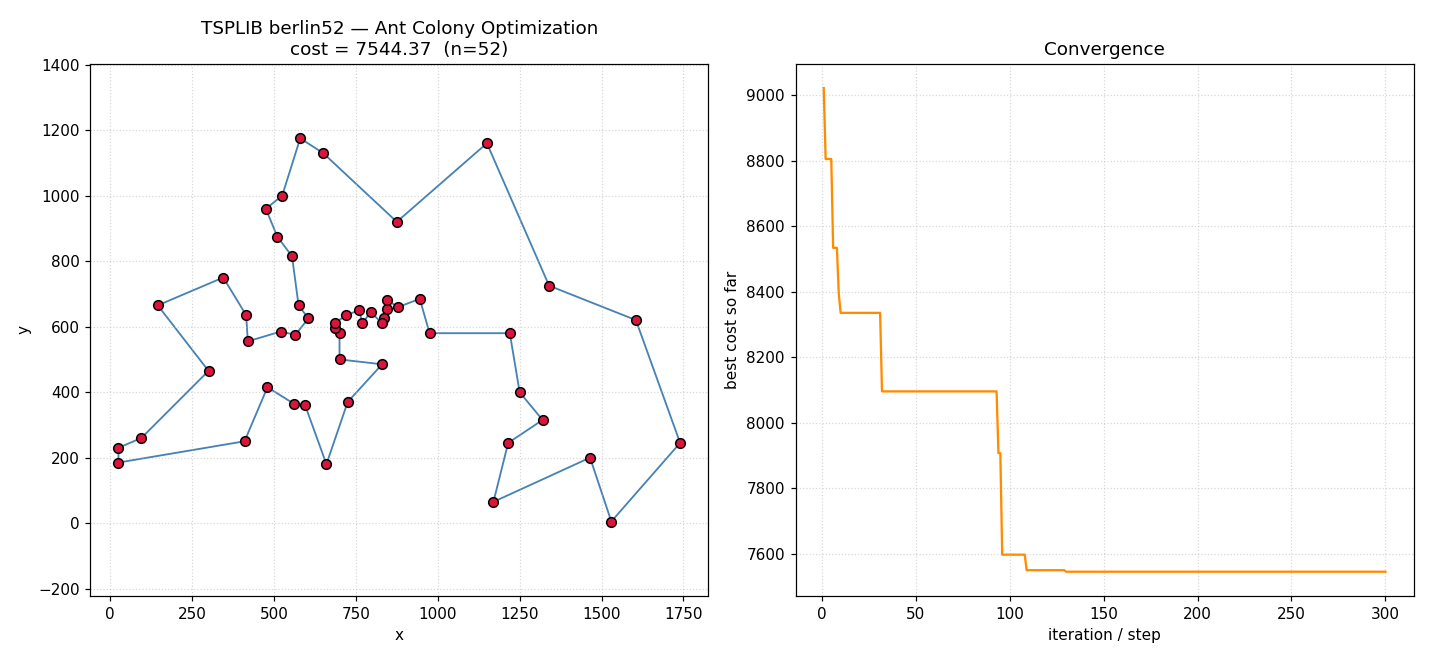
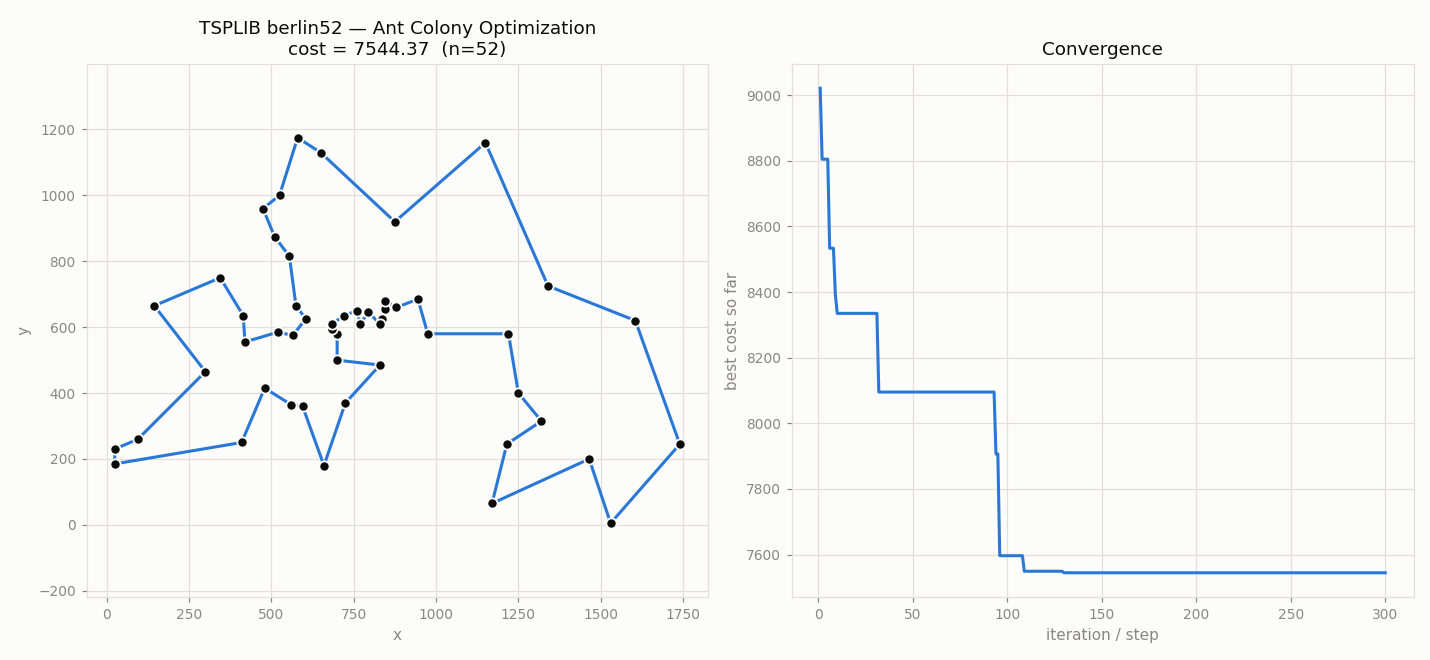
Animasyonlu tur GIF'i ekle, statik görselleri dataviz paletiyle restyle et
- src/experiments/make_tour_animation.py: tour_history kullanarak,
  turun adım adım değiştiği bir GIF üretir (matplotlib
  FuncAnimation + PillowWriter), yakınsama iyileşmesi bittikten
  kısa süre sonra kesip GIF'i gereksiz uzatmıyor.
- berlin52 için SA ve ACO animasyonları üretildi — SA'nın kaotik
  başlangıçtan yavaşça düzelmesi ile ACO'nun (her iterasyonda 2-opt
  sayesinde) temiz başlayıp hızla iyileşmesi arasındaki görsel
  kontrast, mevcut kalite/hız trade-off anlatısını güçlendiriyor.
- plot_solution.py aynı paletle (ACO=mavi, SA=turuncu, dataviz
  referans renkleri) yeniden stillendi; statik PNG'ler yeniden
  üretildi.

diff --git a/src/experiments/make_tour_animation.py b/src/experiments/make_tour_animation.py
@@ -1,0 +1,174 @@
+"""
+Solve a TSP instance with tour-history recording enabled and render an
+animated GIF of the tour untangling over iterations, synced with the
+convergence curve. Used to generate the README's hero image.
+
+Palette follows the project's dataviz reference (see conversation/plan):
+ACO = blue, SA = orange, on a fixed light surface (static GIFs embedded in
+Markdown can't respond to a viewer's dark/light setting, so one mode is
+chosen deliberately rather than left to chance).
+"""
+from __future__ import annotations
+from pathlib import Path
+import sys
+import argparse
+
+import matplotlib.pyplot as plt
+from matplotlib.animation import FuncAnimation, PillowWriter
+
+THIS_DIR = Path(__file__).resolve().parent
+SRC_DIR = THIS_DIR.parent
+BASE_DIR = SRC_DIR.parent
+
+if str(SRC_DIR) not in sys.path:
+    sys.path.insert(0, str(SRC_DIR))
+
+from tsp.instance import TSPInstance
+from solvers.sa import SAConfig, sa_solve
+from solvers.aco import ACOConfig, aco_solve
+
+PLOTS_DIR = BASE_DIR / "data" / "plots"
+TARGET_FRAMES = 50
+
+# --- dataviz reference palette (light surface, fixed for static/GIF embeds) ---
+SURFACE = "#fcfcfb"
+INK_PRIMARY = "#0b0b0b"
+INK_MUTED = "#898781"
+GRIDLINE = "#e1e0d9"
+SERIES = {"aco": "#2a78d6", "sa": "#eb6834"}
+LABELS = {"aco": "Ant Colony Optimization", "sa": "Simulated Annealing"}
+
+
+def solve(instance: TSPInstance, algo: str, seed: int):
+    if algo == "sa":
+        max_steps = 300_000
+        cfg = SAConfig(
+            init_accept_prob=0.8,
+            uphill_samples=100,
+            cooling_alpha=0.995,
+            iters_per_temp=instance.n * 5,
+            min_temp=1e-12,
+            max_steps=max_steps,
+            log_interval=max(1, max_steps // TARGET_FRAMES),
+            seed=seed,
+            use_step_budget_only=True,
+            record_tour_history=True,
+        )
+        return sa_solve(instance, cfg)
+
+    if algo == "aco":
+        iterations = 300
+        cfg = ACOConfig(
+            num_ants=max(20, instance.n // 2),
+            alpha=1.0,
+            beta=3.0,
+            rho=0.1,
+            q=1.0,
+            iterations=iterations,
+            use_local_search=True,
+            local_search_passes=1,
+            log_interval=max(1, iterations // TARGET_FRAMES),
+            seed=seed,
+            record_tour_history=True,
+        )
+        return aco_solve(instance, cfg)
+
+    raise ValueError(f"Unknown algorithm: {algo}")
+
+
+def trim_after_convergence(tour_history, cost_history, hold: int = 6):
+    """
+    tour_history and cost_history are recorded at the same log-interval
+    cadence (same length, same step values), so they can be trimmed
+    together by index. Cut the long flat tail once the best cost stops
+    improving, keeping a short hold so the "final reveal" still registers.
+    """
+    assert len(tour_history) == len(cost_history)
+    last_improvement = 0
+    for i in range(1, len(cost_history)):
+        if cost_history[i][1] < cost_history[i - 1][1] - 1e-9:
+            last_improvement = i
+    cutoff = min(len(cost_history), last_improvement + hold + 1)
+    return tour_history[:cutoff], cost_history[:cutoff]
+
+
+def make_animation(instance: TSPInstance, result: dict, algo: str, title_prefix: str, out_path: Path):
+    tour_history, cost_history = trim_after_convergence(result["tour_history"], result["history"])
+    color = SERIES[algo]
+    xs_all = [c[0] for c in instance.coords]
+    ys_all = [c[1] for c in instance.coords]
+
+    fig, (ax_tour, ax_curve) = plt.subplots(1, 2, figsize=(13, 6), facecolor=SURFACE)
+    for ax in (ax_tour, ax_curve):
+        ax.set_facecolor(SURFACE)
+        for spine in ax.spines.values():
+            spine.set_color(GRIDLINE)
+        ax.tick_params(colors=INK_MUTED, labelsize=9)
+        ax.grid(True, color=GRIDLINE, linewidth=0.8, zorder=0)
+
+    ax_tour.set_xlim(min(xs_all) - 60, max(xs_all) + 60)
+    ax_tour.set_ylim(min(ys_all) - 60, max(ys_all) + 60)
+    ax_tour.set_aspect("equal")
+    (tour_line,) = ax_tour.plot([], [], "-", color=color, linewidth=2, zorder=2, solid_capstyle="round")
+    ax_tour.scatter(xs_all, ys_all, color=INK_PRIMARY, edgecolors=SURFACE, linewidths=1.2, s=45, zorder=3)
+    tour_title = ax_tour.set_title("", fontsize=12, color=INK_PRIMARY)
+
+    steps = [s for s, _ in cost_history]
+    costs = [c for _, c in cost_history]
+    ax_curve.set_xlim(min(steps), max(steps))
+    pad = (max(costs) - min(costs)) * 0.08 or 1.0
+    ax_curve.set_ylim(min(costs) - pad, max(costs) + pad)
+    ax_curve.set_xlabel("iteration / step", color=INK_MUTED, fontsize=10)
+    ax_curve.set_ylabel("best cost so far", color=INK_MUTED, fontsize=10)
+    ax_curve.set_title("Convergence", fontsize=12, color=INK_PRIMARY)
+    (curve_line,) = ax_curve.plot([], [], "-", color=color, linewidth=2, zorder=2)
+    (curve_dot,) = ax_curve.plot([], [], "o", color=color, markersize=9,
+                                   markeredgecolor=SURFACE, markeredgewidth=1.5, zorder=3)
+
+    fig.suptitle(f"{title_prefix} — {LABELS[algo]}", fontsize=14, color=INK_PRIMARY, y=0.98)
+    fig.tight_layout(rect=(0, 0, 1, 0.94))
+
+    def update(frame_idx):
+        # tour_history and cost_history are aligned by index (same log-interval cadence).
+        step, tour = tour_history[frame_idx]
+        xs = [instance.coords[c][0] for c in tour] + [instance.coords[tour[0]][0]]
+        ys = [instance.coords[c][1] for c in tour] + [instance.coords[tour[0]][1]]
+        tour_line.set_data(xs, ys)
+
+        curve_line.set_data(steps[: frame_idx + 1], costs[: frame_idx + 1])
+        curve_dot.set_data([steps[frame_idx]], [costs[frame_idx]])
+
+        tour_title.set_text(f"cost = {costs[frame_idx]:.2f}  (n={instance.n}, step {step})")
+        return tour_line, curve_line, curve_dot, tour_title
+
+    # Hold on the final frame for a beat so the GIF doesn't loop too abruptly.
+    hold_frames = 8
+    frame_indices = list(range(len(tour_history))) + [len(tour_history) - 1] * hold_frames
+
+    anim = FuncAnimation(fig, lambda i: update(frame_indices[i]), frames=len(frame_indices), blit=False)
+
+    PLOTS_DIR.mkdir(parents=True, exist_ok=True)
+    anim.save(out_path, writer=PillowWriter(fps=8))
+    plt.close(fig)
+    print(f"Saved: {out_path}  ({len(tour_history)} tour frames, {out_path.stat().st_size / 1024:.0f} KB)")
+
+
+def main():
+    parser = argparse.ArgumentParser(description="Render an animated GIF of a tour untangling over iterations.")
+    parser.add_argument("--instance", required=True)
+    parser.add_argument("--algo", choices=["sa", "aco"], required=True)
+    parser.add_argument("--seed", type=int, default=42)
+    parser.add_argument("--label", default=None)
+    args = parser.parse_args()
+
+    inst_path = Path(args.instance)
+    instance = TSPInstance.load(str(inst_path))
+    result = solve(instance, args.algo, args.seed)
+
+    label = args.label or inst_path.stem
+    out_path = PLOTS_DIR / f"{inst_path.stem}_{args.algo}_animated.gif"
+    make_animation(instance, result, args.algo, label, out_path)
+
+
+if __name__ == "__main__":
+    main()

diff --git a/src/experiments/plot_solution.py b/src/experiments/plot_solution.py
@@ -1,7 +1,10 @@
 """
 Solve a TSP instance and render a two-panel figure: the found tour drawn
 over the city map, and the best-cost-vs-iteration convergence curve.
-Used to generate the README's result images.
+Used to generate the README's static result images (see
+make_tour_animation.py for the animated GIF version).
+
+Palette: dataviz reference palette, light surface (ACO = blue, SA = orange).
 """
 from __future__ import annotations
 from pathlib import Path
@@ -24,6 +27,13 @@ from solvers.aco import ACOConfig, aco_solve
 
 PLOTS_DIR = BASE_DIR / "data" / "plots"
 
+SURFACE = "#fcfcfb"
+INK_PRIMARY = "#0b0b0b"
+INK_MUTED = "#898781"
+GRIDLINE = "#e1e0d9"
+SERIES = {"aco": "#2a78d6", "sa": "#eb6834"}
+LABELS = {"aco": "Ant Colony Optimization", "sa": "Simulated Annealing"}
+
 
 def solve(instance: TSPInstance, algo: str, seed: int):
     if algo == "sa":
@@ -38,7 +48,7 @@ def solve(instance: TSPInstance, algo: str, seed: int):
             seed=seed,
             use_step_budget_only=True,
         )
-        return sa_solve(instance, cfg), "Simulated Annealing"
+        return sa_solve(instance, cfg)
 
     if algo == "aco":
         cfg = ACOConfig(
@@ -53,41 +63,47 @@ def solve(instance: TSPInstance, algo: str, seed: int):
             log_interval=1,
             seed=seed,
         )
-        return aco_solve(instance, cfg), "Ant Colony Optimization"
+        return aco_solve(instance, cfg)
 
     raise ValueError(f"Unknown algorithm: {algo}")
 
 
-def plot_solution(instance: TSPInstance, result: dict, algo_label: str, title_prefix: str, out_path: Path):
+def plot_solution(instance: TSPInstance, result: dict, algo: str, title_prefix: str, out_path: Path):
     tour = result["best_tour"]
     cost = result["best_cost"]
     history = result["history"]
+    color = SERIES[algo]
 
-    fig, (ax_tour, ax_curve) = plt.subplots(1, 2, figsize=(13, 6))
+    fig, (ax_tour, ax_curve) = plt.subplots(1, 2, figsize=(13, 6), facecolor=SURFACE)
+    for ax in (ax_tour, ax_curve):
+        ax.set_facecolor(SURFACE)
+        for spine in ax.spines.values():
+            spine.set_color(GRIDLINE)
+        ax.tick_params(colors=INK_MUTED, labelsize=9)
+        ax.grid(True, color=GRIDLINE, linewidth=0.8, zorder=0)
 
     xs = [instance.coords[c][0] for c in tour] + [instance.coords[tour[0]][0]]
     ys = [instance.coords[c][1] for c in tour] + [instance.coords[tour[0]][1]]
-    ax_tour.plot(xs, ys, "-", color="steelblue", linewidth=1.2, zorder=1)
+    ax_tour.plot(xs, ys, "-", color=color, linewidth=2, zorder=2, solid_capstyle="round")
     ax_tour.scatter(
         [c[0] for c in instance.coords], [c[1] for c in instance.coords],
-        color="crimson", edgecolors="black", zorder=2, s=40,
+        color=INK_PRIMARY, edgecolors=SURFACE, linewidths=1.2, zorder=3, s=45,
     )
-    ax_tour.set_title(f"{title_prefix} — {algo_label}\ncost = {cost:.2f}  (n={instance.n})")
-    ax_tour.set_xlabel("x")
-    ax_tour.set_ylabel("y")
+    ax_tour.set_title(f"{title_prefix} — {LABELS[algo]}\ncost = {cost:.2f}  (n={instance.n})",
+                       fontsize=12, color=INK_PRIMARY)
+    ax_tour.set_xlabel("x", color=INK_MUTED, fontsize=10)
+    ax_tour.set_ylabel("y", color=INK_MUTED, fontsize=10)
     ax_tour.axis("equal")
-    ax_tour.grid(True, linestyle=":", alpha=0.5)
 
     steps, costs = zip(*history)
-    ax_curve.plot(steps, costs, color="darkorange")
-    ax_curve.set_title("Convergence")
-    ax_curve.set_xlabel("iteration / step")
-    ax_curve.set_ylabel("best cost so far")
-    ax_curve.grid(True, linestyle=":", alpha=0.5)
+    ax_curve.plot(steps, costs, color=color, linewidth=2)
+    ax_curve.set_title("Convergence", fontsize=12, color=INK_PRIMARY)
+    ax_curve.set_xlabel("iteration / step", color=INK_MUTED, fontsize=10)
+    ax_curve.set_ylabel("best cost so far", color=INK_MUTED, fontsize=10)
 
     fig.tight_layout()
     PLOTS_DIR.mkdir(parents=True, exist_ok=True)
-    fig.savefig(out_path, dpi=110)
+    fig.savefig(out_path, dpi=110, facecolor=SURFACE)
     plt.close(fig)
     print(f"Saved: {out_path}")
 
@@ -105,11 +121,11 @@ def main():
 
     inst_path = Path(args.instance)
     instance = TSPInstance.load(str(inst_path))
-    result, algo_label = solve(instance, args.algo, args.seed)
+    result = solve(instance, args.algo, args.seed)
 
     label = args.label or inst_path.stem
     out_path = PLOTS_DIR / f"{inst_path.stem}_{args.algo}.png"
-    plot_solution(instance, result, algo_label, label, out_path)
+    plot_solution(instance, result, args.algo, label, out_path)
 
 
 if __name__ == "__main__":
